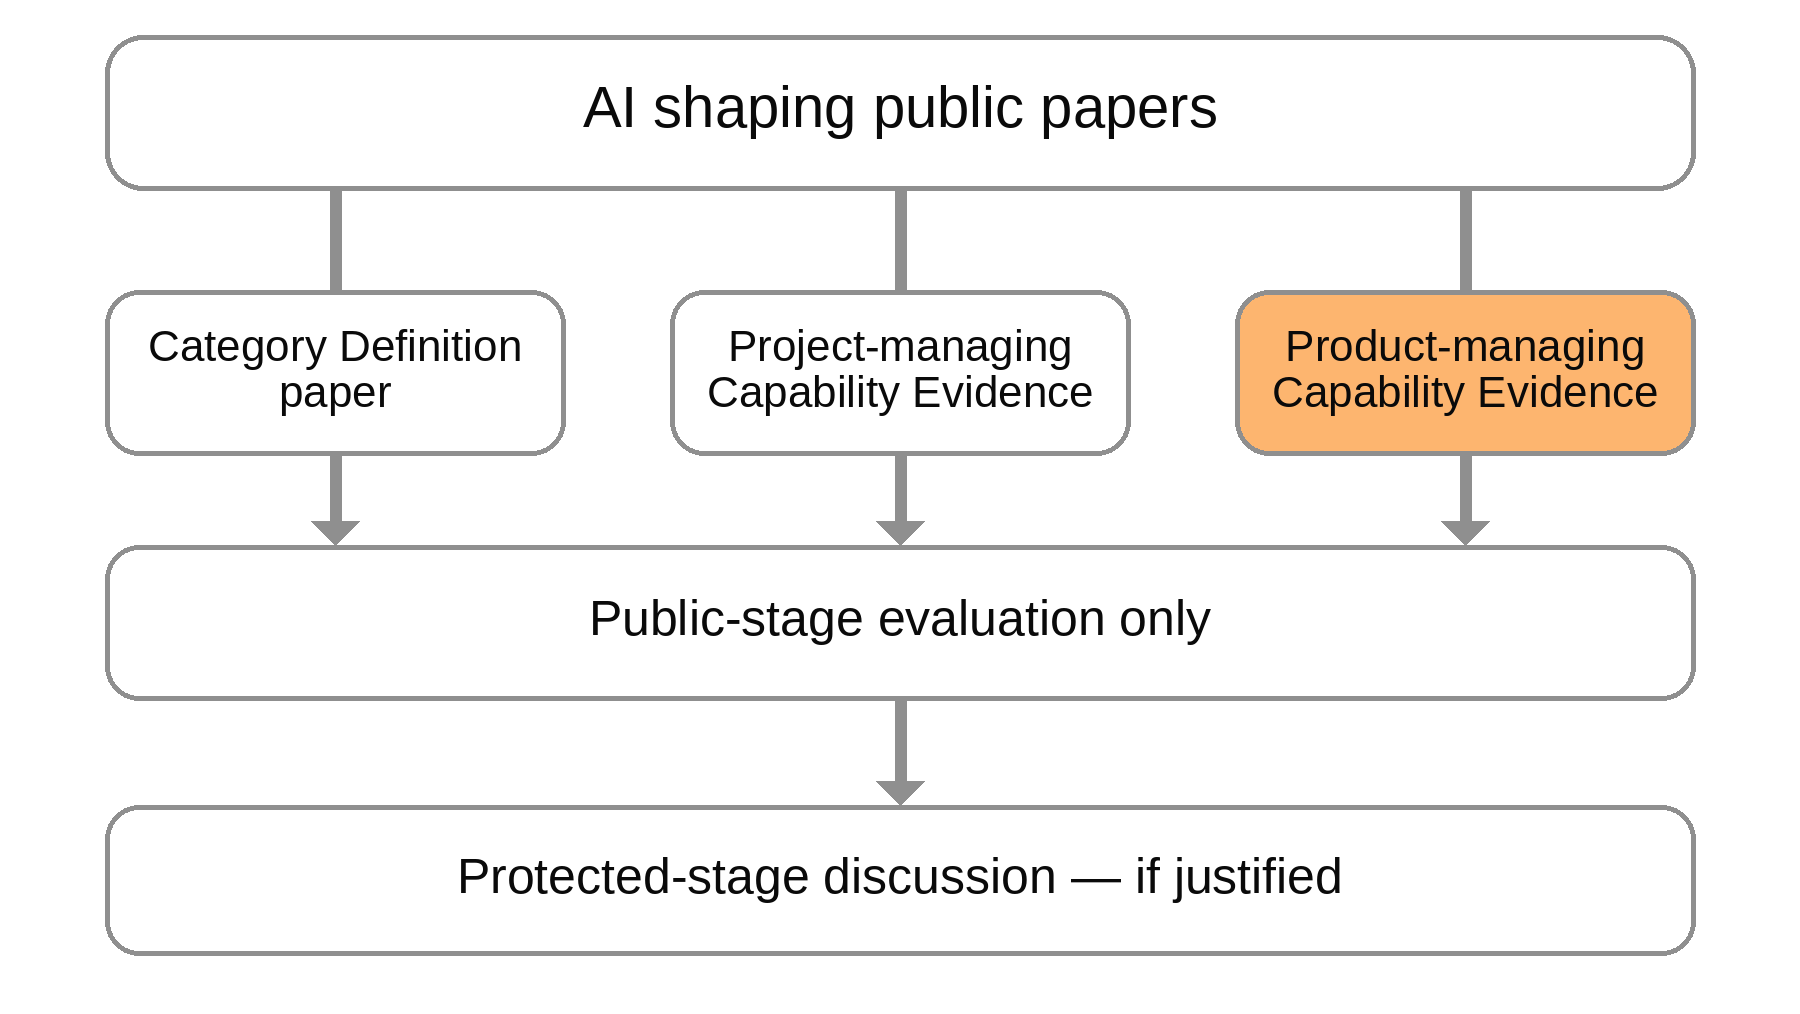
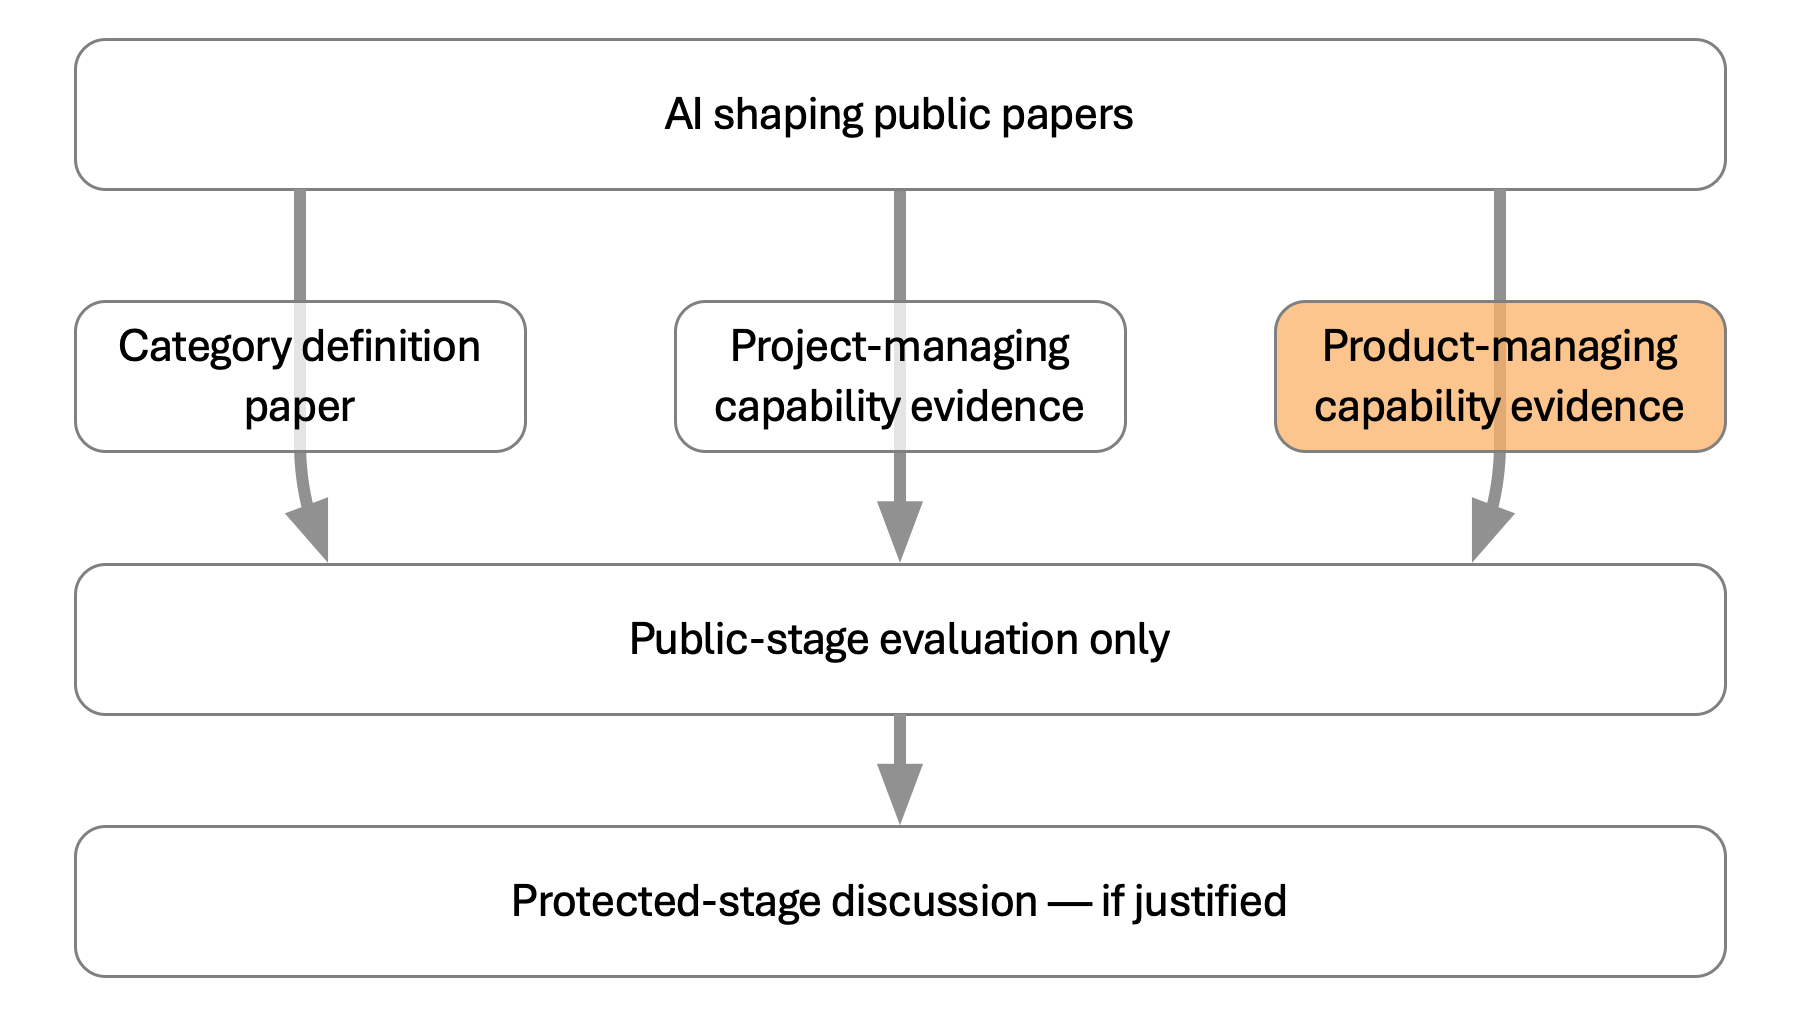
Publish the complete three-paper set
Add the Product-managing Capability Evidence paper, update the three-paper evidence routes, and adopt the final Project-managing and Product-managing diagram names. Preserve human authority and the bounded first-party evidence limitations.

diff --git a/papers/ai-shaping-intelligence-in-practice/index.html b/papers/ai-shaping-intelligence-in-practice/index.html
@@ -20,7 +20,7 @@
 <meta content="Citation and DOI page for the Project-managing Capability Evidence working paper by Kurni Kwok, with category and Product-managing companion links." property="og:description"/>
 <meta content="https://kurnikwok.com/papers/ai-shaping-intelligence-in-practice/" property="og:url"/>
 <meta content="Kurni Kwok · AI Shaping" property="og:site_name"/>
-<meta content="https://kurnikwok.com/assets/images/social/ai-shaping-capability-paper-social-preview.png" property="og:image"/>
+<meta content="https://kurnikwok.com/assets/images/social/ai-shaping-project-managing-capability-evidence-paper-social-preview.png" property="og:image"/>
 <meta content="image/png" property="og:image:type"/>
 <meta content="1200" property="og:image:width"/>
 <meta content="630" property="og:image:height"/>
@@ -28,7 +28,7 @@
 <meta content="summary_large_image" name="twitter:card"/>
 <meta content="Project-Managing Capability Evidence Paper · Kurni Kwok" name="twitter:title"/>
 <meta content="Citation and DOI page for the Project-managing Capability Evidence working paper by Kurni Kwok, with category and Product-managing companion links." name="twitter:description"/>
-<meta content="https://kurnikwok.com/assets/images/social/ai-shaping-capability-paper-social-preview.png" name="twitter:image"/>
+<meta content="https://kurnikwok.com/assets/images/social/ai-shaping-project-managing-capability-evidence-paper-social-preview.png" name="twitter:image"/>
 <meta content="AI shaping public paper route highlighting the Project-managing Capability Evidence paper before bounded public-stage evaluation." name="twitter:image:alt"/>
 <link href="/assets/css/site.css" rel="stylesheet"/>
 <script type="application/ld+json">{
@@ -51,11 +51,11 @@
   "keywords": "AI shaping; AI-shaping intelligence; shaped intelligence; productive AI work; work-burden shift; operating-model design",
   "inLanguage": "en-AU",
   "version": "v1.86",
-  "dateModified": "2026-07-27T23:43:00+10:00",
+  "dateModified": "2026-07-28T00:45:00+10:00",
   "mainEntityOfPage": {
     "@type": "WebPage",
     "@id": "https://kurnikwok.com/papers/ai-shaping-intelligence-in-practice/",
-    "dateModified": "2026-07-27T23:43:00+10:00"
+    "dateModified": "2026-07-28T00:45:00+10:00"
   },
   "abstract": "This paper presents a public-safe capability-evidence instance under the mediated-shaping approach through AI-shaping intelligence: project-managing shaped intelligence in project and business-as-usual (BAU) IT support contexts. Within the category, shaped intelligence carries a reusable and iteratively improvable domain work pattern and reusable work basis; in this paper, the evidence object is whether visible before/after transitions show two-sided work-burden shift moving from the responsible person to project-managing shaped intelligence while purpose, supplied context, judgement, review, approval, disclosure, escalation, communication, decisions and real-world action remain human-owned. The structured public evidence package has two evidence streams and one illustrative transfer-evaluation map. Supporting domain-extensibility evidence comes from the actual extension from vendor-evaluating shaped intelligence into broader project-managing shaped intelligence. Primary capability evidence comes from project-managing shaped intelligence tested in real project and BAU IT support contexts. The illustrative map shows a planned protected-stage cross-domain transfer evaluation into stock-evaluating shaped intelligence, followed only after materialisation and evaluation by possible extension into portfolio-managing shaped intelligence. It creates no stock- or portfolio-domain capability evidence, provides no financial advice and authorises no action. Section 10 is the controlling public evidence test; Appendix A provides lookup detail where a trace point needs checking. The permitted public conclusion is limited to initial capability evaluation and whether protected-stage discussion is justified. The paper is not implementation guidance, deployment assurance, reproducibility proof, measured-improvement proof, product-performance assurance, method transfer, financial advice, portfolio advice, investment-management assurance or a separate domain capability claim."
 }</script>
@@ -65,7 +65,7 @@
   "@id": "https://kurnikwok.com/papers/ai-shaping-intelligence-in-practice/",
   "url": "https://kurnikwok.com/papers/ai-shaping-intelligence-in-practice/",
   "name": "Project-Managing Capability Evidence Paper · Kurni Kwok",
-  "dateModified": "2026-07-27T23:43:00+10:00",
+  "dateModified": "2026-07-28T00:45:00+10:00",
   "mainEntity": {
     "@id": "https://doi.org/10.5281/zenodo.20830131"
   }
@@ -130,7 +130,7 @@
 <p class="lead">Presents a public-safe capability-evidence instance where project-managing shaped intelligence carries more recurring project and BAU IT support work burden under human authority.</p><p class="supporting-copy"><strong>Formal public evidence working paper</strong> · Stable DOI · Mediated-shaping project-work instance.</p>
 <p class="lead">This page is the website summary of the DOI-backed paper; the paper itself remains the formal public capability-evidence source. Website explanations may sharpen supported formulations, but this landing page does not attribute later website wording to the paper unless the paper itself carries it.</p>
 <figure class="figure-card hero-diagram">
-<img alt="Route diagram highlighting the AI shaping capability evidence paper within the public papers and evaluation route." decoding="async" fetchpriority="high" height="1014" loading="eager" src="/assets/images/ai-shaping-capability-evidence-paper-route-diagram.png" width="1800"/>
+<img alt="Route diagram highlighting the AI shaping capability evidence paper within the public papers and evaluation route." decoding="async" fetchpriority="high" height="1014" loading="eager" src="/assets/images/ai-shaping-project-managing-capability-evidence-paper-route-diagram.png" width="1800"/>
 <figcaption>Use the Project-managing evidence paper for the mediated-shaping project-work instance and its bounded public evidence test.</figcaption>
 </figure>
 <div class="actions">

diff --git a/papers/product-managing-shaped-intelligence/index.html b/papers/product-managing-shaped-intelligence/index.html
@@ -20,7 +20,7 @@
 <meta content="Citation and DOI page for the Product-managing Capability Evidence working paper by Kurni Kwok, evaluating a bounded direct-shaping product instance." property="og:description"/>
 <meta content="https://kurnikwok.com/papers/product-managing-shaped-intelligence/" property="og:url"/>
 <meta content="Kurni Kwok · AI Shaping" property="og:site_name"/>
-<meta content="https://kurnikwok.com/assets/images/social/ai-shaping-product-capability-paper-social-preview.png" property="og:image"/>
+<meta content="https://kurnikwok.com/assets/images/social/ai-shaping-product-managing-capability-evidence-paper-social-preview.png" property="og:image"/>
 <meta content="image/png" property="og:image:type"/>
 <meta content="1200" property="og:image:width"/>
 <meta content="630" property="og:image:height"/>
@@ -28,7 +28,7 @@
 <meta content="summary_large_image" name="twitter:card"/>
 <meta content="Product-Managing Capability Evidence Paper · Kurni Kwok" name="twitter:title"/>
 <meta content="Citation and DOI page for the Product-managing Capability Evidence working paper by Kurni Kwok, evaluating a bounded direct-shaping product instance." name="twitter:description"/>
-<meta content="https://kurnikwok.com/assets/images/social/ai-shaping-product-capability-paper-social-preview.png" name="twitter:image"/>
+<meta content="https://kurnikwok.com/assets/images/social/ai-shaping-product-managing-capability-evidence-paper-social-preview.png" name="twitter:image"/>
 <meta content="AI shaping public paper route highlighting the Product-managing Capability Evidence paper before bounded public-stage evaluation." name="twitter:image:alt"/>
 <link href="/assets/css/site.css" rel="stylesheet"/>
 <script type="application/ld+json">{
@@ -51,11 +51,11 @@
   "keywords": "AI shaping; Product-managing shaped intelligence; shaped intelligence; product management; work-burden shift; operating-model design",
   "inLanguage": "en-AU",
   "version": "v1.86",
-  "dateModified": "2026-07-27T23:43:00+10:00",
+  "dateModified": "2026-07-28T00:45:00+10:00",
   "mainEntityOfPage": {
     "@type": "WebPage",
     "@id": "https://kurnikwok.com/papers/product-managing-shaped-intelligence/",
-    "dateModified": "2026-07-27T23:43:00+10:00"
+    "dateModified": "2026-07-28T00:45:00+10:00"
   },
   "abstract": "This paper evaluates Product-managing shaped intelligence established through the direct approach within the bounded AI Shaping knowledge and publication product. The evidence question is whether it carried recurring accepted-state, source, owner-selection, priority, dependency, sequencing, stopping, resumption, reconciliation, propagation and closure burden while human product ownership, stewardship and decision authority remained controlling. The evidence is a purposive eight-case first-party corpus within a window ending with accepted knowledge v1.23 and a dated snapshot of seventeen accepted Product-managing cycles as at 26 July 2026. The count defines the evidence window only; it is not effect size, proof or a public quality score. Three anchor cases receive narrative priority: successful governed continuation, human correction of an unsuitable route or format, and deliberate stopping or prevented unauthorised propagation. Section 10 is the controlling public evidence test. Section 11 centralises the full limitations and unsupported claims. The evidence remains retrospective, purposively sampled, unquantified and not independently validated."
 }</script>
@@ -65,7 +65,7 @@
   "@id": "https://kurnikwok.com/papers/product-managing-shaped-intelligence/",
   "url": "https://kurnikwok.com/papers/product-managing-shaped-intelligence/",
   "name": "Product-Managing Capability Evidence Paper · Kurni Kwok",
-  "dateModified": "2026-07-27T23:43:00+10:00",
+  "dateModified": "2026-07-28T00:45:00+10:00",
   "mainEntity": {
     "@id": "https://doi.org/10.5281/zenodo.21612950"
   }

diff --git a/papers/ai-shaping/index.html b/papers/ai-shaping/index.html
@@ -51,11 +51,11 @@
   "keywords": "AI shaping; AI-shaping intelligence; shaped intelligence; productive AI work; work-burden shift; operating-model design",
   "inLanguage": "en-AU",
   "version": "v1.86",
-  "dateModified": "2026-07-27T23:43:00+10:00",
+  "dateModified": "2026-07-28T00:45:00+10:00",
   "mainEntityOfPage": {
     "@type": "WebPage",
     "@id": "https://kurnikwok.com/papers/ai-shaping/",
-    "dateModified": "2026-07-27T23:43:00+10:00"
+    "dateModified": "2026-07-28T00:45:00+10:00"
   },
   "abstract": "This paper defines AI shaping as the operating-model discipline for turning broad general-purpose AI capability into productive AI work by establishing shaped intelligence that carries a reusable and iteratively improvable domain work pattern and reusable work basis across recurring work. The opportunity exists where work retains stable-enough underlying structure despite changing subjects, inputs and work state. The operational effect and principal capability-evidence signal is two-sided work-burden shift: moving more domain-practice and subject-context burden, and more work-state and resumption burden, from the responsible person to shaped intelligence while preserving source basis and the human-authority boundary. Shaped intelligence is the reusable domain-facing capability established through AI shaping. It carries the domain work pattern and work basis into recurring work. Under the direct-shaping approach, the discipline establishes bounded shaped intelligence without first materialising separately reusable AI-shaping intelligence. Under the mediated-shaping approach, separately established AI-shaping intelligence carries the reusable shaping pattern used to develop, audit, improve, adapt, extend, transfer-evaluate or materially renew shaped intelligence under human direction. The paper explains the value hierarchy, work burden and work-burden shift, the direct- and mediated-shaping approaches, concept architecture, category fit, a public-safe capability lifecycle, domain extension and transfer, adjacent-framework positioning and protected-method limits. It supports category understanding only. The related evidence papers carry their own bounded evidence objects and limitations."
 }</script>
@@ -65,7 +65,7 @@
   "@id": "https://kurnikwok.com/papers/ai-shaping/",
   "url": "https://kurnikwok.com/papers/ai-shaping/",
   "name": "AI Shaping Category Definition Paper · Kurni Kwok",
-  "dateModified": "2026-07-27T23:43:00+10:00",
+  "dateModified": "2026-07-28T00:45:00+10:00",
   "mainEntity": {
     "@id": "https://doi.org/10.5281/zenodo.20830022"
   }

diff --git a/protected-stage-discussion/index.html b/protected-stage-discussion/index.html
@@ -38,7 +38,7 @@
   "url": "https://kurnikwok.com/protected-stage-discussion/",
   "description": "Scoped protected-stage review for defined evaluation, collaboration, AI-shaping capability, evidence or implementation questions beyond public material.",
   "inLanguage": "en-AU",
-  "dateModified": "2026-07-27T23:43:00+10:00"
+  "dateModified": "2026-07-28T00:45:00+10:00"
 }</script>
 <script type="application/ld+json">{
   "@context": "https://schema.org",

diff --git a/evidence/index.html b/evidence/index.html
@@ -42,9 +42,9 @@
     "@type": "WebSite",
     "name": "Kurni Kwok · AI Shaping",
     "url": "https://kurnikwok.com/",
-    "dateModified": "2026-07-27T23:43:00+10:00"
+    "dateModified": "2026-07-28T00:45:00+10:00"
   },
-  "dateModified": "2026-07-27T23:43:00+10:00"
+  "dateModified": "2026-07-28T00:45:00+10:00"
 }</script>
 <script type="application/ld+json">{
   "@context": "https://schema.org",

diff --git a/public-evaluation-map/index.html b/public-evaluation-map/index.html
@@ -42,9 +42,9 @@
     "@type": "WebSite",
     "name": "Kurni Kwok · AI Shaping",
     "url": "https://kurnikwok.com/",
-    "dateModified": "2026-07-27T23:43:00+10:00"
+    "dateModified": "2026-07-28T00:45:00+10:00"
   },
-  "dateModified": "2026-07-27T23:43:00+10:00"
+  "dateModified": "2026-07-28T00:45:00+10:00"
 }</script>
 <script type="application/ld+json">{
   "@context": "https://schema.org",

diff --git a/papers/index.html b/papers/index.html
@@ -57,7 +57,7 @@
     }
   ],
   "description": "DOI-backed AI Shaping working papers: the Category Definition paper and distinct Project-managing and Product-managing Capability Evidence papers.",
-  "dateModified": "2026-07-27T23:43:00+10:00"
+  "dateModified": "2026-07-28T00:45:00+10:00"
 }</script>
 <script type="application/ld+json">{
   "@context": "https://schema.org",

diff --git a/assets/js/web.js b/assets/js/web.js
@@ -287,7 +287,7 @@
       visibleLabel: 'Site',
       ariaLabel: 'Website release',
       version: 'v1.31',
-      updated: '27 July 2026, 11:43 pm AEST'
+      updated: '28 July 2026, 12:45 am AEST'
     }),
     routes
   });
